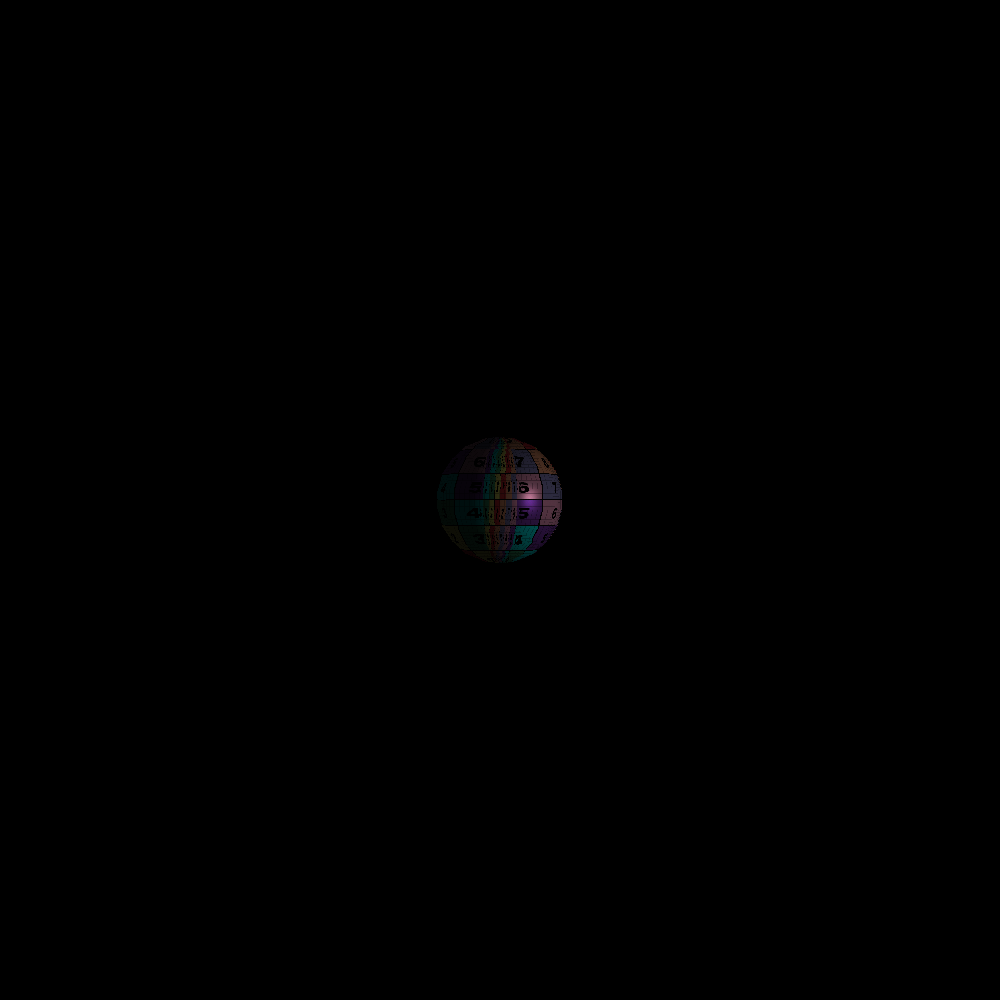
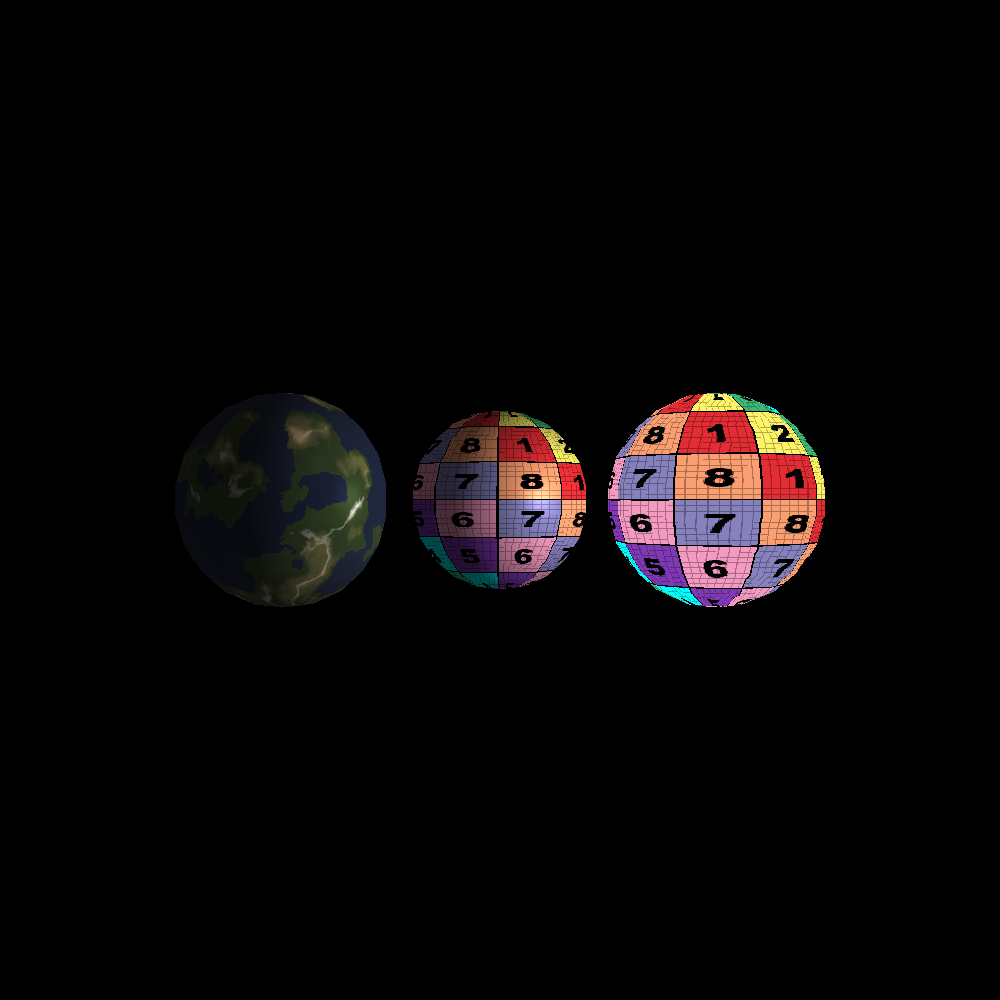
Refactor draw method

Changed region(s): [[0.186, 0.372, 0.837, 0.62]]

diff --git a/Zad1/Triangle.cpp b/Zad1/Triangle.cpp
@@ -1,10 +1,6 @@
 #include "Triangle.h"
 #include <iostream>
-#include "Matrix4.h"
-#include "ColorBuffer.h"
-#include "DepthBuffer.h"
-#include "DirectionalLight.h"
-#include "PointLight.h"
+
 
 
 Triangle::Triangle(Vector3 v1, Vector3 v2, Vector3 v3, Vector3 n1, Vector3 n2, Vector3 n3, Vector3 t1, Vector3 t2, Vector3 t3) :
@@ -46,7 +42,7 @@ void Triangle::SetView(Matrix4 obj2view, Matrix4 camera, Matrix4 m) {
 	if (dy31 < 0 || (dy31 == 0 && dx31 > 0)) { tl3 = true; }
 }
 
-void Triangle::Draw(int& i, int& j, ColorBuffer& buffer, Texture& texture)
+void Triangle::Draw(int& i, int& j, ColorBuffer& buffer, Texture& texture, PointLight& pl)
 {
 	if (isInsideTriangle(i, j))
 	{
@@ -58,16 +54,13 @@ void Triangle::Draw(int& i, int& j, ColorBuffer& buffer, Texture& texture)
 		Vector3 V = dv1 * L1 + dv2 * L2 + dv3 * L3;
 		Vector3 N = n1 * L1 + n2 * L2 + n3 * L3;
 
-		//Matrix4 model;
-		//model = Matrix4::Translate(model, Vector3(0, -1, 7));
+		Matrix4 mk;
+		mk = Matrix4::Translate(mk, Vector3(2, 1, 4));
 
 		Vector4 vertices = model * Vector4(V, 1);
-
+		Vector4 norms = model * Vector4(N, 0);
 		V = Vector3(vertices.x, vertices.y, vertices.z);
-
-		//DirectionalLight pl(Vector3(0.7f, 0.0, 0.2f), Vector3(10, 10, 10), Vector3(70, 70, 70), Vector3(200, 200, 200));
-		PointLight pl(Vector3(6, 0, 3), Vector3(15, 15, 15), Vector3(70, 70, 70), Vector3(255, 255, 255));
-
+		N = Vector3(norms.x, norms.y, norms.z);
 
 		float v = t1.x * L1 + t2.x * L2 + t3.x * L3;
 		float u = t1.y * L1 + t2.y * L2 + t3.y * L3;
@@ -80,6 +73,37 @@ void Triangle::Draw(int& i, int& j, ColorBuffer& buffer, Texture& texture)
 		colorV2 = pl.Calculate(V, N, colorV2);
 		colorV3 = pl.Calculate(V, N, colorV3);
 		CutColorRange();
+		//color for each pixel
+		R = L1 * colorV1.x + L2 * colorV2.x + L3 * colorV3.x;
+		G = L1 * colorV1.y + L2 * colorV2.y + L3 * colorV3.y;
+		B = L1 * colorV1.z + L2 * colorV2.z + L3 * colorV3.z;
+
+		float depth = L1 * v1.z + L2 * v2.z + L3 * v3.z;
+		if (depth < DEPTHBUFFER[i * HEIGHT + j])
+		{
+			buffer.SetColor(j, i, R, G, B);
+			DEPTHBUFFER[i * HEIGHT + j] = depth;
+		}
+	}
+}
+
+void Triangle::Draw(int& i, int& j, ColorBuffer& buffer, Texture& texture)
+{
+	if (isInsideTriangle(i, j))
+	{
+		//baricentric cords
+		L1 = (dy23 * (j - v3.x) + dx32 * (i - v3.y)) / (dy23 * dx13 + dx32 * dy13);
+		L2 = (dy31 * (j - v3.x) + dx13 * (i - v3.y)) / (dy31 * dx23 + dx13 * dy23);
+		L3 = 1 - L2 - L1;
+
+		float v = t1.x * L1 + t2.x * L2 + t3.x * L3;
+		float u = t1.y * L1 + t2.y * L2 + t3.y * L3;
+		//std::cout << v << "\n";
+		colorV1 = texture.GetColor((texture.width - 1) * v, (texture.height - 1) * u);
+		colorV2 = texture.GetColor((texture.width - 1) * v, (texture.height - 1) * u);
+		colorV3 = texture.GetColor((texture.width - 1) * v, (texture.height - 1) * u);
+		CutColorRange();
+
 		//color for each pixel
 		R = L1 * colorV1.x + L2 * colorV2.x + L3 * colorV3.x;
 		G = L1 * colorV1.y + L2 * colorV2.y + L3 * colorV3.y;

diff --git a/Zad1/RenderingAlghortims.cpp b/Zad1/RenderingAlghortims.cpp
@@ -21,44 +21,59 @@ int main()
 {
 	ColorBuffer buffer(WIDTH, HEIGHT);
 
-	Texture texture("UV.png");
+	Texture texture1("earth.png");
+	Texture texture2("UV.png");
 	//std::cout<<texture.GetColor(10, 10).ToString();
 
 	Sphere sphere(10,10);
+	Sphere sphere2(10, 10);
+	Sphere cylinder(10, 10);
 
 	Matrix4 obj2view;
 	obj2view.Perspective(50, 1.f, 0.1f, 100.f);
 
 	Matrix4 camera;
-	camera = camera.LookAt(Vector3(0, 0, -10), Vector3(0, 0, 10), Vector3(0, 1, 0));
+	camera = camera.LookAt(Vector3(0, 0, -5), Vector3(0, 0, 10), Vector3(0, 1, 0));
 
 	Matrix4 modelSphere;
 	modelSphere = modelSphere.Translate(modelSphere, Vector3(0, 0, 7));
-	//modelSphere = modelSphere.Rotate(modelSphere, Vector3(0, 1, 0), 170);
+	modelSphere = modelSphere.Rotate(modelSphere, Vector3(0, 1, 0), 90);
+
+	Matrix4 modelSphere2;
+	modelSphere2 = modelSphere2.Translate(modelSphere2, Vector3(2, 0, 5));
+	modelSphere2 = modelSphere2.Rotate(modelSphere2, Vector3(0, 1, 0), 120);
+
+	Matrix4 modelCylinder;
+	modelCylinder = modelCylinder.Translate(modelCylinder, Vector3(-2, 0, 5));
+	modelCylinder = modelCylinder.Rotate(modelCylinder, Vector3(0, 1, 0), 120);
 
 	sphere.SetModelMatrix(modelSphere);
 	sphere.SetCamera(camera);
 	sphere.SetProjection(obj2view);
 
+	sphere2.SetModelMatrix(modelSphere2);
+	sphere2.SetCamera(camera);
+	sphere2.SetProjection(obj2view);
+
+	cylinder.SetModelMatrix(modelCylinder);
+	cylinder.SetCamera(camera);
+	cylinder.SetProjection(obj2view);
+
 	//DirectionalLight dl(Vector3(-0.4f, 0.0, -0.2f), Vector3(50,0,0),Vector3(210,0,0),Vector3(255,255,255));
-	//PointLight pl(Vector3(2,0, 2), Vector3(0, 15, 0), Vector3(0, 220, 0), Vector3(255, 255, 255));
+	PointLight pl(Vector3(5,0, 3), Vector3(75, 75, 75), Vector3(210, 210, 210), Vector3(255, 255, 255));
 
-	std::vector<Mesh> figures;
-	figures = { sphere };
 
-	for (auto& f: figures)
-	{
-		f.SetView();
-	}
+	sphere.SetView();
+	sphere2.SetView();
+	cylinder.SetView();
 
 	for (int i = 0; i < HEIGHT; i++)
 	{
 		for (int j = 0; j < WIDTH; j++)
 		{
-			for (auto& t : figures)
-			{
-				t.Draw(i, j, buffer,texture);
-			}
+			sphere.Draw(i, j, buffer,texture2,pl);
+			sphere2.Draw(i, j, buffer, texture2);
+			cylinder.Draw(i, j, buffer, texture1, pl);
 		}
 	}
 

diff --git a/Zad1/Triangle.h b/Zad1/Triangle.h
@@ -3,6 +3,11 @@
 #include "ColorBuffer.h"
 #include "Matrix4.h"
 #include "Texture.h"
+#include "DirectionalLight.h"
+#include "PointLight.h"
+#include "Matrix4.h"
+#include "DepthBuffer.h"
+
 class Triangle
 {
 public:
@@ -36,8 +41,8 @@ public:
     float L2;
     float L3;
 
-
     bool isInsideTriangle(int &i, int &j);
+    void Draw(int& i, int& j, ColorBuffer& buffer, Texture& texture, PointLight& pl);
     void Draw(int& i, int& j, ColorBuffer& buffer, Texture& texture);
     void Lambda(int& i, int& j);
     void SetView(Matrix4 obj2view, Matrix4 camera, Matrix4 m);

diff --git a/Zad1/Mesh.cpp b/Zad1/Mesh.cpp
@@ -108,7 +108,14 @@ void Mesh::SetColorPerVertex(const Vector3& v1, const Vector3& v2, const Vector3
 	}
 }
 
-void Mesh::Draw(int& i, int& j, ColorBuffer& buffer,Texture& texture)
+void Mesh::Draw(int& i, int& j, ColorBuffer& buffer,Texture& texture, PointLight& pl)
+{
+	for (auto& t : triangles)
+	{
+		t.Draw(i, j, buffer, texture,pl);
+	}
+}
+void Mesh::Draw(int& i, int& j, ColorBuffer& buffer, Texture& texture)
 {
 	for (auto& t : triangles)
 	{

diff --git a/Zad1/Mesh.h b/Zad1/Mesh.h
@@ -28,6 +28,7 @@ public:
 	void SetView();
 	void SetColor(const Vector3& color);
 	void SetColorPerVertex(const Vector3& v1, const Vector3& v2, const Vector3& v3);
+	void Draw(int& i, int& j, ColorBuffer& buffer, Texture& texture, PointLight& pl);
 	void Draw(int& i, int& j, ColorBuffer& buffer, Texture& texture);
 };
 

diff --git a/Zad1/DirectionalLight.h b/Zad1/DirectionalLight.h
@@ -1,8 +1,6 @@
 #pragma once
 #include "Light.h"
-#include "Matrix4.h"
 #include <vector>
-#include "Triangle.h"
 
 class DirectionalLight : public Light
 {

diff --git a/Zad1/PointLight.h b/Zad1/PointLight.h
@@ -1,6 +1,5 @@
 #pragma once
 #include "Light.h"
-#include "Mesh.h"
 class PointLight : public Light
 {
 public:

diff --git a/Zad1/Light.h b/Zad1/Light.h
@@ -1,5 +1,6 @@
 #pragma once
 #include "Vector3.h"
+#include "Vector4.h"
 class Light
 {
 public:
